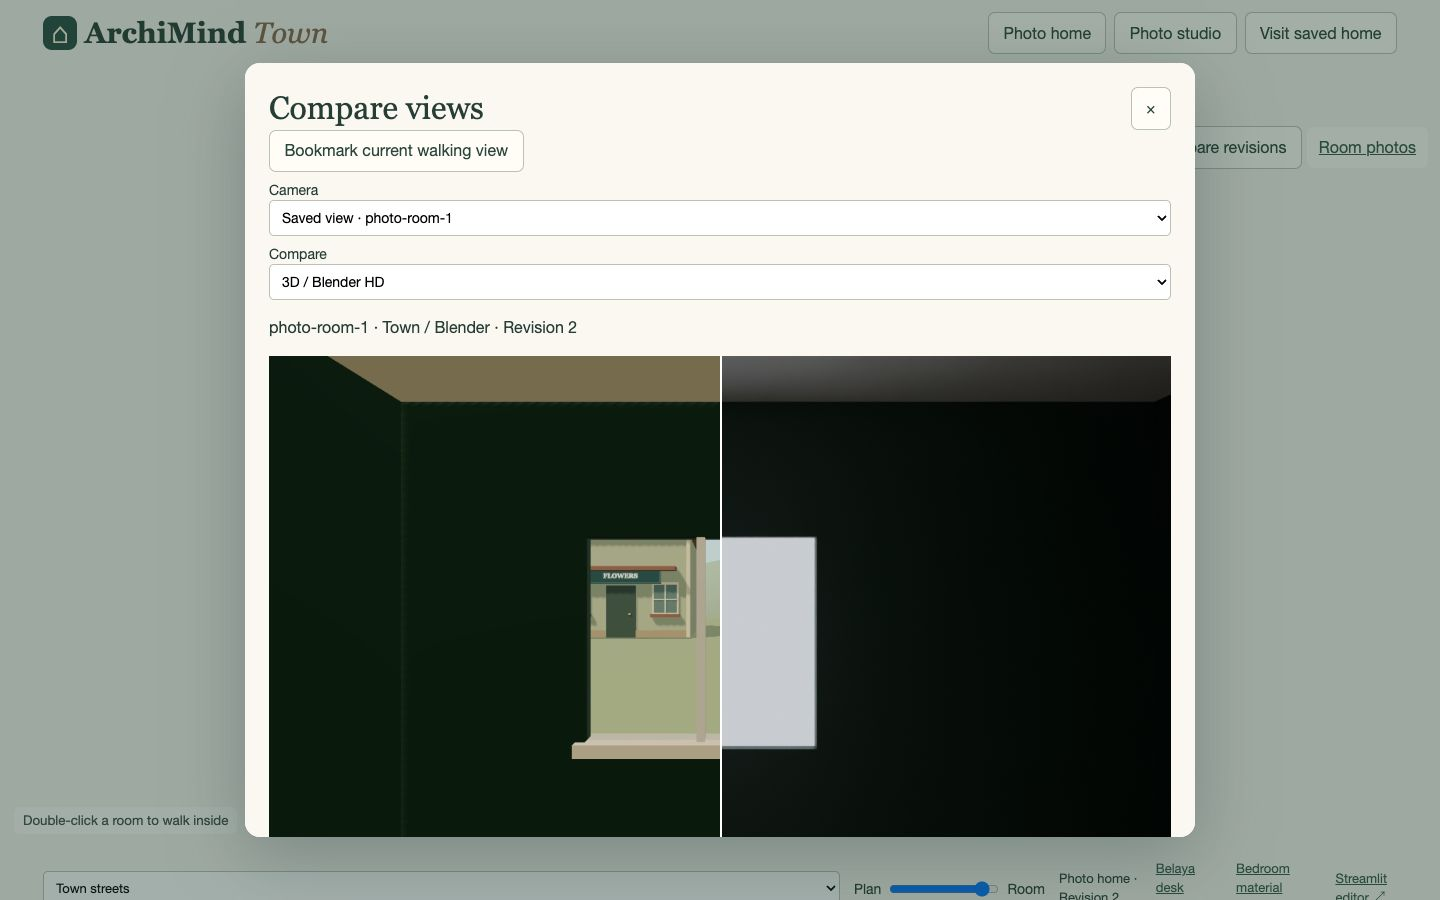
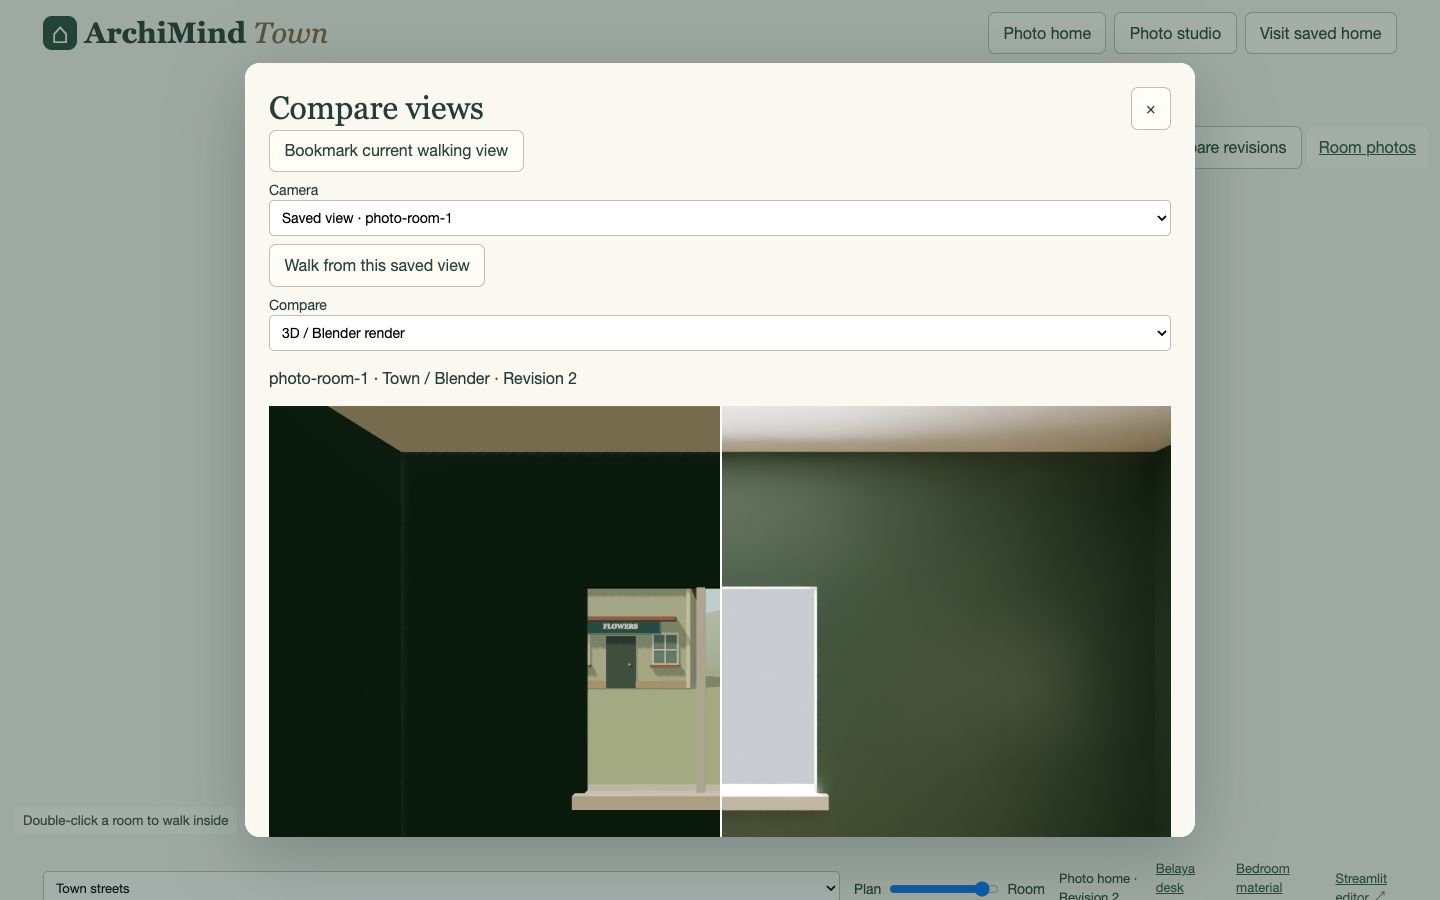
Exercise saved camera boundaries, photo corrections and synchronized Blender views

Changed region(s): [[0.1875, 0.28, 0.8125, 0.9333]]

diff --git a/frontend/realistic_viewer/town/photo_home.js b/frontend/realistic_viewer/town/photo_home.js
@@ -1,88 +1,177 @@
 // Each doorway is recorded independently from both rooms. The server reconciles them.
-export function bindPhotoHome({el, api, local, saved, context}) {
+export function bindPhotoHome({ el, api, local, saved, context }) {
   if (!local) return;
-  const launch = el("openPhotoHome"), dialog = el("photoHomeDialog");
+  const launch = el("openPhotoHome"),
+    dialog = el("photoHomeDialog");
   launch.hidden = false;
-  const list = el("photoHomeRooms"), status = el("photoHomeStatus");
+  const list = el("photoHomeRooms"),
+    status = el("photoHomeStatus");
   const sections = () => Array.from(list.children);
   function refreshEnds() {
-    sections().forEach((section,i,all) => {
+    sections().forEach((section, i, all) => {
       section.querySelector(".west").hidden = i === 0;
-      section.querySelector(".east").hidden = i === all.length-1;
-      section.querySelector("legend").textContent = "Room "+(i+1)+" · west to east";
+      section.querySelector(".east").hidden = i === all.length - 1;
+      section.querySelector("legend").textContent =
+        "Room " + (i + 1) + " · west to east";
     });
     el("addPhotoRoom").disabled = list.children.length >= 4;
     el("removePhotoRoom").disabled = list.children.length <= 2;
     el("photoHomeConfirmed").checked = false;
   }
   function add() {
-    const node = el("photoRoomTemplate").content.firstElementChild.cloneNode(true);
+    const node =
+      el("photoRoomTemplate").content.firstElementChild.cloneNode(true);
     list.append(node);
+    let editVersion = 0;
+    node.addEventListener("input", () => editVersion++);
     node.querySelector(".windowAdd").onclick = () => {
-      const row = el("photoWindowTemplate").content.firstElementChild.cloneNode(true);
-      row.querySelector("button").onclick = () => {row.remove();el("photoHomeConfirmed").checked=false;};
+      const row = el("photoWindowTemplate").content.firstElementChild.cloneNode(
+        true,
+      );
+      row.querySelector("button").onclick = () => {
+        row.remove();
+        el("photoHomeConfirmed").checked = false;
+      };
       node.querySelector(".windows").append(row);
-      el("photoHomeConfirmed").checked=false;
+      el("photoHomeConfirmed").checked = false;
     };
-    node.querySelector(".suggest").onclick = async event => {
-      const button=event.currentTarget;
-      button.disabled=true;
+    node.querySelector(".suggest").onclick = async (event) => {
+      const button = event.currentTarget;
+      button.disabled = true;
+      const version = editVersion;
       try {
         const photo = await encodePhoto(node.querySelector(".file").files[0]);
-        const r=await api("/photo-home-suggest",{photo,consent:true});
-        const width=Number(node.querySelector(".width").value);
-        const ratio=r.estimated_depth_to_width_ratio;
-        if(width>0 && ratio && width*ratio>=1.5 && width*ratio<=12) node.querySelector(".depth").value=(width*ratio).toFixed(2);
-        node.querySelector(".uncertainty").value=r.observations_and_uncertainty.slice(0,500);
-        status.textContent="Visual hypothesis received. "+(r.possible_window_wall ? "Possible "+r.possible_window_wall+" window. " : "")+"Check the depth and openings against your measurements.";
-        el("photoHomeConfirmed").checked=false;
-      } catch(e) {status.textContent=e.message;}
-      finally {button.disabled=false;}
+        const r = await api("/photo-home-suggest", { photo, consent: true });
+        if (!node.isConnected || version !== editVersion) return;
+        const width = Number(node.querySelector(".width").value);
+        const ratio = r.estimated_depth_to_width_ratio;
+        if (width > 0 && ratio && width * ratio >= 1.5 && width * ratio <= 12)
+          node.querySelector(".depth").value = (width * ratio).toFixed(2);
+        node.querySelector(".uncertainty").value =
+          r.observations_and_uncertainty.slice(0, 500);
+        status.textContent =
+          "Visual hypothesis received. " +
+          (r.possible_window_wall
+            ? "Possible " + r.possible_window_wall + " window. "
+            : "") +
+          "Check the depth and openings against your measurements.";
+        el("photoHomeConfirmed").checked = false;
+      } catch (e) {
+        status.textContent = e.message;
+      } finally {
+        button.disabled = false;
+      }
     };
     refreshEnds();
   }
   async function encodePhoto(file) {
-    if(!file || !["image/jpeg","image/png","image/webp"].includes(file.type) || file.size>8*1024*1024)
+    if (
+      !file ||
+      !["image/jpeg", "image/png", "image/webp"].includes(file.type) ||
+      file.size > 8 * 1024 * 1024
+    )
       throw Error("Choose one JPEG, PNG or WebP under 8 MiB for each room.");
-    const bitmap=await createImageBitmap(file), scale=Math.min(1,1000/Math.max(bitmap.width,bitmap.height));
-    const canvas=document.createElement("canvas");
-    canvas.width=Math.max(1,Math.round(bitmap.width*scale));canvas.height=Math.max(1,Math.round(bitmap.height*scale));
-    canvas.getContext("2d").drawImage(bitmap,0,0,canvas.width,canvas.height);bitmap.close();
-    return canvas.toDataURL("image/jpeg",.85).split(",")[1];
+    const bitmap = await createImageBitmap(file),
+      scale = Math.min(1, 1000 / Math.max(bitmap.width, bitmap.height));
+    const canvas = document.createElement("canvas");
+    canvas.width = Math.max(1, Math.round(bitmap.width * scale));
+    canvas.height = Math.max(1, Math.round(bitmap.height * scale));
+    canvas
+      .getContext("2d")
+      .drawImage(bitmap, 0, 0, canvas.width, canvas.height);
+    bitmap.close();
+    return canvas.toDataURL("image/jpeg", 0.85).split(",")[1];
   }
-  el("addPhotoRoom").onclick=add;el("removePhotoRoom").onclick=()=>{list.lastElementChild.remove();refreshEnds();};
-  launch.onclick=()=>{
-    if(!list.children.length){add();add();}
-    const {project,home}=context(), refs=el("photoHomeSources");refs.replaceChildren();
-    for(const s of home?.photo_home?.sources || []){
-      const p=home.rooms.find(x=>x.design.room.id===s.room);
-      const fig=document.createElement("figure"), img=document.createElement("img"), cap=document.createElement("figcaption");
-      img.src="./api/projects/"+encodeURIComponent(project)+"/room-photo/"+s.photo_sha256;
-      img.width=140;img.alt=p.design.room.name+" source";
-      cap.textContent=p.design.room.name+" · "+p.design.room.width_m+" × "+p.design.room.depth_m+" m · "+(s.uncertainty||"User-confirmed room geometry.");
-      fig.append(img,cap);refs.append(fig);
+  el("addPhotoRoom").onclick = add;
+  el("removePhotoRoom").onclick = () => {
+    list.lastElementChild.remove();
+    refreshEnds();
+  };
+  launch.onclick = () => {
+    if (!list.children.length) {
+      add();
+      add();
+    }
+    const { project, home } = context(),
+      refs = el("photoHomeSources");
+    refs.replaceChildren();
+    for (const s of home?.photo_home?.sources || []) {
+      const p = home.rooms.find((x) => x.design.room.id === s.room);
+      const fig = document.createElement("figure"),
+        img = document.createElement("img"),
+        cap = document.createElement("figcaption");
+      img.src =
+        "./api/projects/" +
+        encodeURIComponent(project) +
+        "/room-photo/" +
+        s.photo_sha256;
+      img.width = 140;
+      img.alt = p.design.room.name + " source";
+      cap.textContent =
+        p.design.room.name +
+        " · " +
+        p.design.room.width_m +
+        " × " +
+        p.design.room.depth_m +
+        " m · " +
+        (s.uncertainty || "User-confirmed room geometry.");
+      fig.append(img, cap);
+      refs.append(fig);
     }
     dialog.showModal();
   };
-  el("closePhotoHome").onclick=()=>dialog.close();
-  const form=el("photoHomeForm");
-  form.oninput=e=>{if(e.target!==el("photoHomeConfirmed"))el("photoHomeConfirmed").checked=false;};
-  form.onsubmit=async event=>{
+  el("closePhotoHome").onclick = () => dialog.close();
+  const form = el("photoHomeForm");
+  form.oninput = (e) => {
+    if (e.target !== el("photoHomeConfirmed"))
+      el("photoHomeConfirmed").checked = false;
+  };
+  form.onsubmit = async (event) => {
     event.preventDefault();
-    const val=(n,c)=>n.querySelector(c).valueAsNumber;
-    const opening=(s,c)=>s.querySelector(c).hidden?null:{offset:val(s,c+" .offset"),width:val(s,c+" .clear")};
-    const button=el("savePhotoHome");button.disabled=true;
+    const val = (n, c) => n.querySelector(c).valueAsNumber;
+    const opening = (s, c) =>
+      s.querySelector(c).hidden
+        ? null
+        : { offset: val(s, c + " .offset"), width: val(s, c + " .clear") };
+    const button = el("savePhotoHome");
+    button.disabled = true;
     try {
-      const rooms=await Promise.all(sections().map(async s=>({
-        name:s.querySelector(".name").value,photo:await encodePhoto(s.querySelector(".file").files[0]),
-        width:val(s,".width"),depth:val(s,".depth"),ceiling_height:val(s,".height"),west:opening(s,".west"),east:opening(s,".east"),
-        uncertainty:s.querySelector(".uncertainty").value,windows:Array.from(s.querySelector(".windows").children,r=>({
-          wall:r.querySelector("select").value,offset:val(r,".offset"),width:val(r,".width"),height:val(r,".height"),sill:val(r,".sill")
-        }))
-      })));
-      const result=await api("/photo-home",{rooms,entry:{width:val(form,"#entryWidth"),offset:val(form,"#entryOffset")},confirmed:el("photoHomeConfirmed").checked});
-      saved(result);dialog.close();list.replaceChildren();form.reset();status.textContent="";
-    } catch(e){status.textContent=e.message;}
-    finally{button.disabled=false;}
+      const rooms = await Promise.all(
+        sections().map(async (s) => ({
+          name: s.querySelector(".name").value,
+          photo: await encodePhoto(s.querySelector(".file").files[0]),
+          width: val(s, ".width"),
+          depth: val(s, ".depth"),
+          ceiling_height: val(s, ".height"),
+          west: opening(s, ".west"),
+          east: opening(s, ".east"),
+          uncertainty: s.querySelector(".uncertainty").value,
+          windows: Array.from(s.querySelector(".windows").children, (r) => ({
+            wall: r.querySelector("select").value,
+            offset: val(r, ".offset"),
+            width: val(r, ".width"),
+            height: val(r, ".height"),
+            sill: val(r, ".sill"),
+          })),
+        })),
+      );
+      const result = await api("/photo-home", {
+        rooms,
+        entry: {
+          width: val(form, "#entryWidth"),
+          offset: val(form, "#entryOffset"),
+        },
+        confirmed: el("photoHomeConfirmed").checked,
+      });
+      saved(result);
+      dialog.close();
+      list.replaceChildren();
+      form.reset();
+      status.textContent = "";
+    } catch (e) {
+      status.textContent = e.message;
+    } finally {
+      button.disabled = false;
+    }
   };
 }

diff --git a/frontend/realistic_viewer/town/house_compare.js b/frontend/realistic_viewer/town/house_compare.js
@@ -6,11 +6,19 @@ const bedroom = (home) =>
   home.rooms.find((part) => part.design.room.id === "bedroom");
 
 function containsCamera(home, pose) {
-  const part = home.rooms.find(p => p.design.room.id === pose.room);
+  const part = home.rooms.find((p) => p.design.room.id === pose.room);
   if (!part) return false;
-  const [x, y] = part.origin, [px, height, z] = pose.eye, room = part.design.room;
-  return px >= x && px <= x + room.width_m && -z >= y && -z <= y + room.depth_m
-    && height > 0 && height < room.ceiling_height_m;
+  const [x, y] = part.origin,
+    [px, height, z] = pose.eye,
+    room = part.design.room;
+  return (
+    px >= x &&
+    px <= x + room.width_m &&
+    -z >= y &&
+    -z <= y + room.depth_m &&
+    height > 0 &&
+    height < room.ceiling_height_m
+  );
 }
 
 export function bindHouseComparison({ el, world, api, context, asset }) {
@@ -44,7 +52,9 @@ export function bindHouseComparison({ el, world, api, context, asset }) {
     const savedPose = bookmarks.get(view);
     if (savedPose) {
       if (!containsCamera(home, savedPose))
-        throw Error("The camera is outside its room in this revision. Bookmark a new view.");
+        throw Error(
+          "The camera is outside its room in this revision. Bookmark a new view.",
+        );
       if (kind === "revision") {
         if (revision < 2)
           throw Error("Save an edit before comparing two revisions.");
@@ -239,7 +249,7 @@ export function bindHouseComparison({ el, world, api, context, asset }) {
   };
   el("restoreRoomView").onclick = async () => {
     const pose = bookmarks.get(el("compareCamera").value);
-    if (!pose || !containsCamera(context().home,pose)) return;
+    if (!pose || !containsCamera(context().home, pose)) return;
     const source = context().home;
     dialog.close();
     await running;

diff --git a/tests/test_town_photo_home.py b/tests/test_town_photo_home.py
@@ -105,3 +105,30 @@ def test_shared_glazing_requires_both_observations_and_matches_by_location():
         with pytest.raises(service.Problem, match="Reconcile shared windows"):
             assemble(intake)
         west[field] = east[field]
+
+
+def test_optional_suggestion_preserves_unknown_scale_and_requires_consent(monkeypatch):
+    from archimind.town import photo_home
+
+    calls = []
+    monkeypatch.setattr(
+        photo_home.provider, "configuration", lambda consent: ("test", "test")
+    )
+
+    def fake(schema, prompt, **kwargs):
+        calls.append(prompt)
+        return schema(
+            estimated_depth_to_width_ratio=200,
+            possible_window_wall=None,
+            observations_and_uncertainty="The far wall is obscured.",
+        )
+
+    monkeypatch.setattr(photo_home.provider, "request", fake)
+    data = {"photo": payload()["rooms"][0]["photo"], "consent": False}
+    with pytest.raises(service.Problem, match="Confirm sending"):
+        photo_home.suggest(data)
+    assert not calls
+    result = photo_home.suggest({**data, "consent": True})
+    assert result["estimated_depth_to_width_ratio"] is None
+    assert result["possible_window_wall"] is None
+    assert len(calls) == 1

diff --git a/tests/test_town_camera_finish.py b/tests/test_town_camera_finish.py
@@ -84,3 +84,21 @@ def test_bookmark_is_project_owned_and_keeps_original_pose(saved):
     other = service.create("another-user", home=home)["project"]
     assert client.get("/api/projects/" + other + "/bookmarks").status_code in (403, 404)
     assert client.get(path + "/bookmarks").json()["views"] == [pose]
+
+
+def test_render_rejects_camera_outside_historical_room_before_loading_blender(
+    saved, tmp_path
+):
+    from archimind.town.bookmarks import photograph
+
+    _, _, home = saved
+    room = home["rooms"][0]
+    pose = {
+        "room": room["design"]["room"]["id"],
+        "eye": [300, 1.5, -300],
+        "target": [301, 1.5, -300],
+        "fov": 61,
+        "aspect": 1.5,
+    }
+    with pytest.raises(service.Problem, match="outside the room"):
+        photograph({"home": home}, pose, tmp_path / "unused-blender")

diff --git a/docs/data/milestone7/cameras/README.md b/docs/data/milestone7/cameras/README.md
@@ -1,0 +1,9 @@
+# Bookmarked room comparisons
+
+Desktop Chrome at 1440 × 900 saved walking cameras for the salon, study and living room. On reopening project `29f9747c-e87b-41dd-b3cd-4199d31b0e52` at revision 4, all three cameras produced an adjacent-revision wipe. At 390 × 844, **Walk from this saved view** restored the study position; bookmarking the restored position again resolved to the same room.
+
+| Salon | Study | Living room |
+|---|---|---|
+| [Desktop wipe](compare-salon.jpg) | [Desktop wipe](compare-study.jpg) · [Phone wipe](narrow.jpg) | [Desktop wipe](compare-living.jpg) |
+
+Each camera stores its room, eye, target, vertical field of view and aspect ratio. The comparison restores the original frame even when the browser window now has different proportions. A bookmarked view outside either revision's room cannot be compared. The [photo-home proof](../photo-home/integration.json) records a separate browser comparison with a real local Cycles render.
